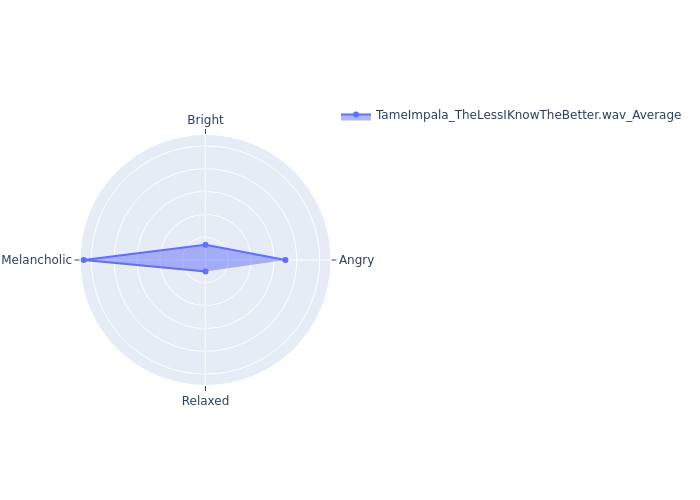
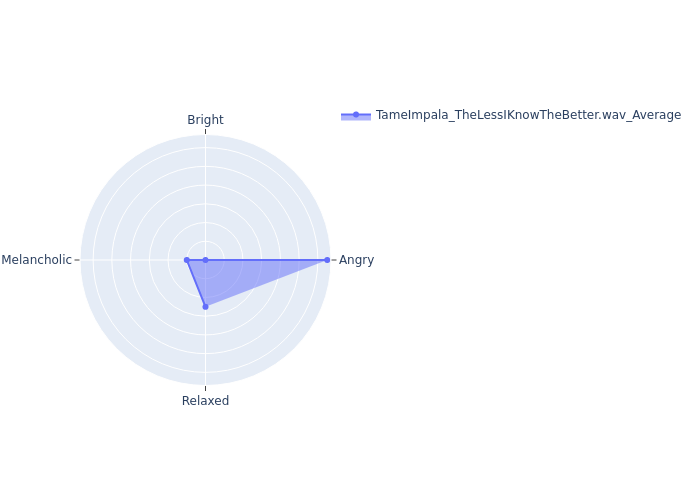
testing music with for 1 min

Changed region(s): [[0.12, 0.48, 0.48, 0.63]]

diff --git a/yt_dataset_testing/save_mfcc.py b/yt_dataset_testing/save_mfcc.py
@@ -4,11 +4,11 @@ import math
 import librosa
 
 DATASET_PATH = "yt_dataset"
-JSON_FILE_NAME = "p6_8songs_3sec.json"
+JSON_FILE_NAME = "p4_8songs_3sec.json"
 JSON_PATH = JSON_FILE_NAME
 
 SAMPLE_RATE = 22050
-DURATION = 180  # measured in seconds for GTZAN Dataset
+DURATION = 60  # measured in seconds for GTZAN Dataset
 SAMPLES_PER_TRACK = SAMPLE_RATE * DURATION
 
 def save_mfcc(dataset_path, json_path, n_mfcc=13, n_fft=2048, hop_length=512, num_segments=5):
@@ -68,4 +68,4 @@ def save_mfcc(dataset_path, json_path, n_mfcc=13, n_fft=2048, hop_length=512, nu
 
 
 if __name__ == "__main__":
-    save_mfcc(DATASET_PATH, JSON_PATH, num_segments=60)
+    save_mfcc(DATASET_PATH, JSON_PATH, num_segments=20)

diff --git a/yt_dataset_testing/predict_mood.py b/yt_dataset_testing/predict_mood.py
@@ -59,7 +59,7 @@ for i, label_index in enumerate(predicted_class_indices):
     song_radar_values[label_index] += 1
 
     # Calculate and save the radar chart when reaching the end of a song (every 60 segments)
-    if segment_count == 60:
+    if segment_count == 20:
         # Calculate the average radar values for the song
         avg_radar_values = song_radar_values / segment_count
         # Output the averaged radar values to the terminal
